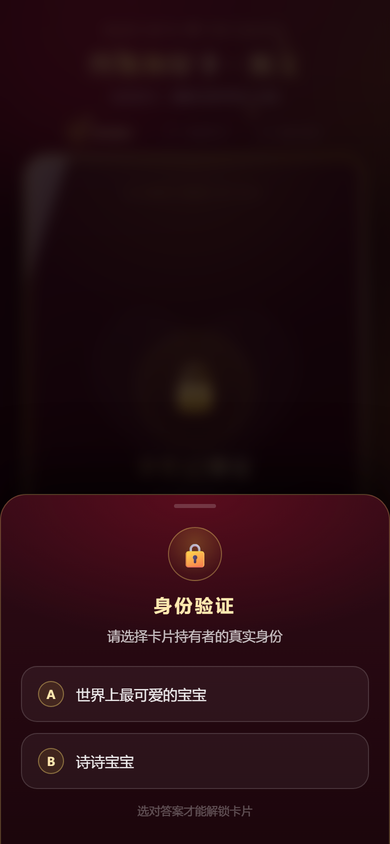
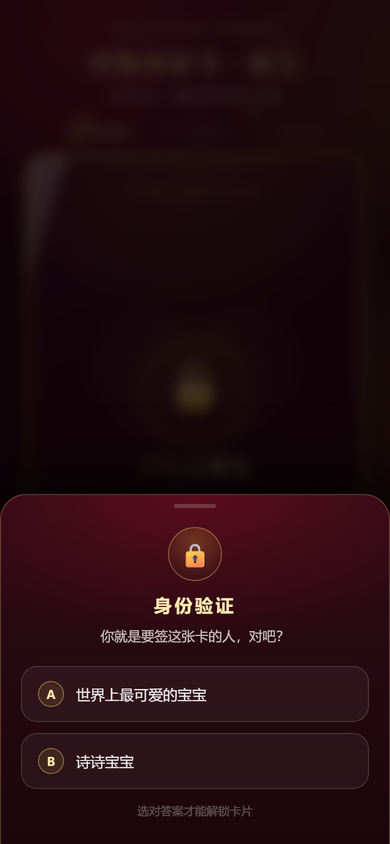
feat: 改为「她签发、送给你」的方向，称呼避开男朋友/女朋友

Changed region(s): [[0.2462, 0.7393, 0.7385, 0.7701]]

diff --git a/src/components/MakeUpCard.vue b/src/components/MakeUpCard.vue
@@ -1,9 +1,7 @@
 <script setup lang="ts">
-import { CARD_SUBTITLE, CARD_TITLE, HOLDER_NAME, LAYOUT, TERMS } from '../cardSpec'
+import { CARD_SUBTITLE, CARD_TITLE, HOLDER_NAME, ISSUER_NAME, LAYOUT, TERMS } from '../cardSpec'
 
-withDefaults(defineProps<{ serial: string; issuedAt: string; holder?: string }>(), {
-  holder: HOLDER_NAME
-})
+defineProps<{ serial: string; issuedAt: string }>()
 
 const px = (n: number) => `${n}px`
 </script>
@@ -42,7 +40,7 @@ const px = (n: number) => `${n}px`
 
         <div class="mk-holder" :style="{ top: px(LAYOUT.holderTop) }">
           <span class="mk-holder-label" :style="{ fontSize: px(LAYOUT.holderLabelSize) }">持卡人</span>
-          <span class="mk-holder-name" :style="{ fontSize: px(LAYOUT.holderSize) }">{{ holder }}</span>
+          <span class="mk-holder-name" :style="{ fontSize: px(LAYOUT.holderSize) }">{{ HOLDER_NAME }}</span>
         </div>
         <div class="mk-dotrule" :style="{ top: px(LAYOUT.holderRuleY) }" />
 
@@ -91,14 +89,14 @@ const px = (n: number) => `${n}px`
           }"
         >
           <span class="mk-sig-label" :style="{ fontSize: px(LAYOUT.sigLabelSize) }">
-            持卡人签名 / SIGNATURE
+            签发人签名 / SIGNATURE
           </span>
           <span class="mk-sig-ghost">在此签名</span>
         </div>
 
         <p class="mk-meta" :style="{ top: px(LAYOUT.metaTop), fontSize: px(LAYOUT.metaSize) }">
           <span>签发日期 {{ issuedAt }}</span>
-          <span class="mk-meta-right">永久有效</span>
+          <span class="mk-meta-right">签发人 {{ ISSUER_NAME }}</span>
         </p>
 
         <p class="mk-foot" :style="{ top: px(LAYOUT.footTop), fontSize: px(LAYOUT.footSize) }">

diff --git a/src/composables/useCardRenderer.ts b/src/composables/useCardRenderer.ts
@@ -5,6 +5,7 @@ import {
   CARD_TITLE,
   CARD_W,
   HOLDER_NAME,
+  ISSUER_NAME,
   LAYOUT,
   PALETTE,
   TERMS
@@ -13,7 +14,6 @@ import {
 export interface RenderCardOptions {
   serial: string
   dateText: string
-  holder?: string
   /** 签名板导出的透明笔迹图层（见 SignaturePad.exportInk） */
   ink?: HTMLCanvasElement | null
   /** 导出倍率，默认 3 倍（1020 × 1620 px） */
@@ -316,7 +316,7 @@ function drawSignatureBox(ctx: CanvasRenderingContext2D, ink?: HTMLCanvasElement
   ctx.font = `500 ${LAYOUT.sigLabelSize}px ${SANS}`
   ctx.textAlign = 'left'
   ctx.fillStyle = 'rgba(140,116,80,0.78)'
-  ctx.fillText('持卡人签名 / SIGNATURE', x + 9, y + 7)
+  ctx.fillText('签发人签名 / SIGNATURE', x + 9, y + 7)
   ctx.restore()
 
   if (ink) {
@@ -339,7 +339,7 @@ function drawMeta(ctx: CanvasRenderingContext2D, dateText: string) {
   ctx.textAlign = 'right'
   ctx.font = `700 ${LAYOUT.metaSize}px ${SANS}`
   ctx.fillStyle = PALETTE.goldDark
-  ctx.fillText('永久有效', CARD_W - LAYOUT.pad, LAYOUT.metaTop)
+  ctx.fillText(`签发人 ${ISSUER_NAME}`, CARD_W - LAYOUT.pad, LAYOUT.metaTop)
   ctx.restore()
 }
 
@@ -473,7 +473,7 @@ export function renderCard(options: RenderCardOptions): HTMLCanvasElement {
   drawWatermark(ctx)
   drawOrnaments(ctx)
   drawHeader(ctx, options.serial)
-  drawHolder(ctx, options.holder ?? HOLDER_NAME)
+  drawHolder(ctx, HOLDER_NAME)
   drawTerms(ctx)
   drawSignatureBox(ctx, options.ink)
   drawStamp(ctx)

diff --git a/src/App.vue b/src/App.vue
@@ -5,7 +5,7 @@ import StageCard from './components/StageCard.vue'
 import StageLock from './components/StageLock.vue'
 import StageSuccess from './components/StageSuccess.vue'
 import { useConfetti } from './composables/useConfetti'
-import { formatDateCN, HOLDER_FULL_NAME, HOLDER_NAME, makeSerial } from './cardSpec'
+import { formatDateCN, HOLDER_NAME, ISSUER_FULL_NAME, ISSUER_NAME, makeSerial } from './cardSpec'
 
 type Stage = 'locked' | 'card' | 'done'
 
@@ -86,7 +86,7 @@ onBeforeUnmount(() => {
     </div>
 
     <header class="app-header">
-      <p class="kicker">MADE WITH ♥ FOR {{ HOLDER_NAME }}</p>
+      <p class="kicker">FROM {{ ISSUER_NAME }} · TO {{ HOLDER_NAME }}</p>
       <h1 class="app-title">终极和好卡 · 预支</h1>
       <p class="app-sub">出示此卡，强制无条件终止冷战</p>
     </header>
@@ -124,7 +124,7 @@ onBeforeUnmount(() => {
     </main>
 
     <footer class="app-footer">
-      <p>本卡由「男朋友」签发 · 持卡人 {{ HOLDER_FULL_NAME }} · 有效期：永久</p>
+      <p>签发人 {{ ISSUER_FULL_NAME }} · 持卡人 {{ HOLDER_NAME }} · 有效期：永久</p>
     </footer>
 
     <canvas ref="confettiCanvas" class="confetti-layer" aria-hidden="true" />

diff --git a/src/components/VerifyDialog.vue b/src/components/VerifyDialog.vue
@@ -1,6 +1,6 @@
 <script setup lang="ts">
 import { computed, ref, watch } from 'vue'
-import { HOLDER_NAME } from '../cardSpec'
+import { ISSUER_NAME } from '../cardSpec'
 
 const props = defineProps<{ open: boolean }>()
 const emit = defineEmits<{
@@ -10,7 +10,7 @@ const emit = defineEmits<{
 
 const OPTIONS = [
   { key: 'A', text: '世界上最可爱的宝宝', correct: false },
-  { key: 'B', text: HOLDER_NAME, correct: true }
+  { key: 'B', text: ISSUER_NAME, correct: true }
 ]
 
 const ERROR_TEXT = '身份验证失败，只有宝宝才能解锁哦'
@@ -69,7 +69,7 @@ function choose(option: (typeof OPTIONS)[number]) {
         <div class="dialog-panel" :class="{ 'is-shake': shaking }">
           <div class="dialog-badge">🔒</div>
           <h2 class="dialog-title">身份验证</h2>
-          <p class="dialog-question">请选择卡片持有者的真实身份</p>
+          <p class="dialog-question">你就是要签这张卡的人，对吧？</p>
 
           <div class="dialog-options">
             <button

diff --git a/src/cardSpec.ts b/src/cardSpec.ts
@@ -9,11 +9,14 @@
 export const CARD_W = 340
 export const CARD_H = 540
 
-/** 持卡人昵称（卡片「持卡人」、页头、身份验证正确答案都用这个） */
-export const HOLDER_NAME = '诗诗宝宝'
+/** 持卡人：收下这张卡的人（卡片「持卡人」一栏） */
+export const HOLDER_NAME = '陈宇翔'
 
-/** 持卡人全名（只出现在页脚） */
-export const HOLDER_FULL_NAME = '李诗雪'
+/** 签发人昵称：签这张卡送出去的人（卡片、页头、身份验证正确答案都用这个） */
+export const ISSUER_NAME = '诗诗宝宝'
+
+/** 签发人全名（只出现在页脚） */
+export const ISSUER_FULL_NAME = '李诗雪'
 export const CARD_TITLE = '终极和好卡'
 export const CARD_SUBTITLE = 'ULTIMATE MAKE-UP PASS'
 export const CARD_FOOTNOTE = '本卡最终解释权归宝宝所有 ♥'

diff --git a/src/components/StageSuccess.vue b/src/components/StageSuccess.vue
@@ -1,5 +1,6 @@
 <script setup lang="ts">
 import { computed, onBeforeUnmount, onMounted, ref } from 'vue'
+import { HOLDER_NAME } from '../cardSpec'
 
 const props = defineProps<{ image: string; serial: string }>()
 const emit = defineEmits<{
@@ -55,7 +56,7 @@ function onSaveClick() {
 
     <p class="success-tip">
       <span aria-hidden="true">📸</span>
-      <span>可长按保存卡片图片或截图发送给男朋友</span>
+      <span>可长按保存卡片图片，或截图发给{{ HOLDER_NAME }}</span>
     </p>
 
     <div class="success-actions">

diff --git a/src/components/StageCard.vue b/src/components/StageCard.vue
@@ -86,7 +86,7 @@ function confirmSign() {
     <Transition name="slide-up">
       <div v-if="showPad" class="pad-panel">
         <div class="pad-head">
-          <span class="pad-title">✍ 持卡人签名</span>
+          <span class="pad-title">✍ 签发人签名</span>
           <span class="pad-tip">手指 / 鼠标直接书写</span>
         </div>
 

diff --git a/src/components/LockedCard.vue b/src/components/LockedCard.vue
@@ -52,7 +52,7 @@
 
         <div class="lock-foot">
           <span>NO. ✱✱✱✱-✱✱✱✱</span>
-          <span>持卡人：？？？</span>
+          <span>签发人：？？？</span>
         </div>
 
         <div class="lock-dots">• • •</div>

diff --git a/README.md b/README.md
@@ -1,9 +1,12 @@
 # 终极和好卡 · 预支凭证 💌
 
-一个部署在 **GitHub Pages** 上的情侣互动 H5：把一张「终极和好卡」预支给女朋友，
-三关流程 —— 身份验证 → 卡片条约 → 手写签名 + 盖章生效。
+一个部署在 **GitHub Pages** 上的情侣互动 H5：**她签一张「终极和好卡」送给你**，
+三关流程 —— 身份验证 → 卡片条约 → 手写签名 + 盖章生效，最后把生成的卡片图发给你。
 
 纯前端静态站点，**没有任何后端**，构建产物可以直接丢到任何静态托管上。
+
+> 角色说明：**签发人**（签名送卡的人）与**持卡人**（收卡、可以出示此卡的人）。
+> 两个名字都集中在 `src/cardSpec.ts`，改一处全站生效。
 
 ## 📸 效果预览
 
@@ -17,9 +20,9 @@
 
 | 关卡 | 内容 |
 | --- | --- |
-| 第一关 · 身份验证 | 卡片初始为**锁定状态**，自动弹出趣味选择题「请选择卡片持有者的真实身份」。选错会抖动并弹窗提示「身份验证失败，只有宝宝才能解锁哦」，选对才解锁。 |
-| 第二关 · 卡片与签名 | 卡片 **3D 翻转入场**，展示烫金卡面与三条条约；底部是 HTML5 Canvas 手写签名板（鼠标 + 手机触摸都支持），提供「重签」「确认签名」。 |
-| 第三关 · 预支成功 | 点击「确认签名」后，用 Canvas 把**手写笔迹**和**「已生效」红色印章**合成绘制到卡片上，触发满屏爱心 + 烟花特效，提示「🎉 预支成功！可长按保存卡片图片或截图发送给男朋友」。 |
+| 第一关 · 身份验证 | 卡片初始为**锁定状态**，自动弹出趣味选择题「你就是要签这张卡的人，对吧？」。选错会抖动并弹窗提示「身份验证失败，只有宝宝才能解锁哦」，选对才解锁。 |
+| 第二关 · 卡片与签名 | 卡片 **3D 翻转入场**，展示烫金卡面（持卡人 / 签发人）与三条条约；底部是 HTML5 Canvas 手写签名板（鼠标 + 手机触摸都支持），提供「重签」「确认签名」。 |
+| 第三关 · 预支成功 | 点击「确认签名」后，用 Canvas 把**手写笔迹**和**「已生效」红色印章**合成绘制到卡片上，触发满屏爱心 + 烟花特效，提示「🎉 预支成功！可长按保存卡片图片，或截图发给对方」。 |
 
 卡片条约：
 
@@ -115,7 +118,7 @@ https://<你的用户名>.github.io/<仓库名>/
 
 | 想改什么 | 改哪里 |
 | --- | --- |
-| 女朋友的名字（卡面「持卡人」、页头、文件名） | `src/cardSpec.ts` 的 `HOLDER_NAME`；页头文案在 `src/App.vue` |
+| 持卡人 / 签发人的名字 | `src/cardSpec.ts` 的 `HOLDER_NAME`（收卡人）、`ISSUER_NAME`（签名送卡人）、`ISSUER_FULL_NAME`（页脚全名）；页头文案在 `src/App.vue` |
 | 卡片条约三条内容 | `src/cardSpec.ts` 的 `TERMS` |
 | 身份验证的题目与选项 / 错误提示 | `src/components/VerifyDialog.vue` 的 `OPTIONS` 与 `ERROR_TEXT` |
 | 卡片标题、副标题、页脚 | `src/cardSpec.ts` 的 `CARD_TITLE` / `CARD_SUBTITLE` / `CARD_FOOTNOTE` |
